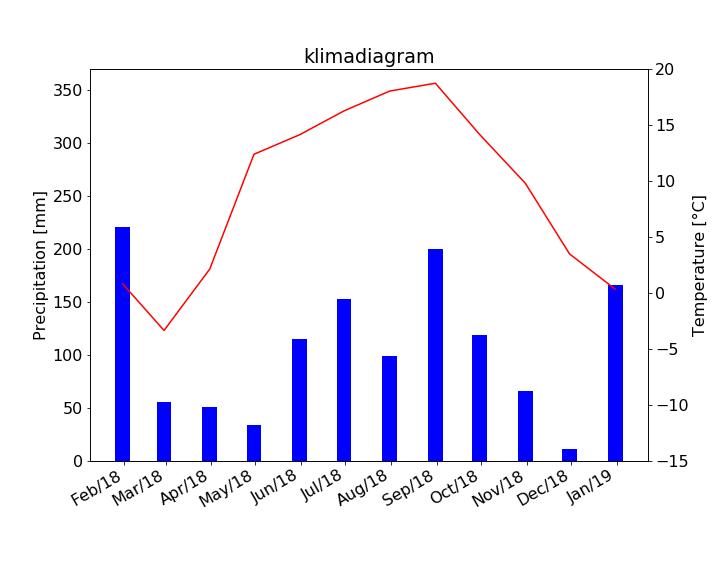
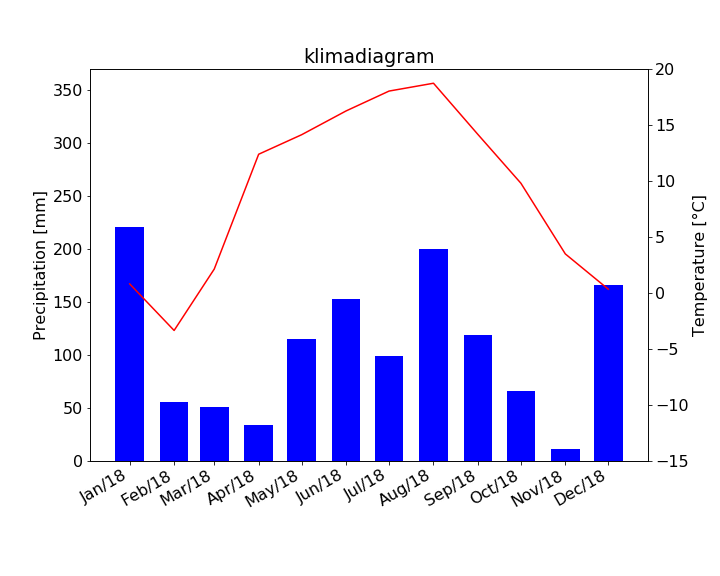
fix month start freq

diff --git a/create_climate_diagrams.py b/create_climate_diagrams.py
@@ -60,20 +60,25 @@ def create_climate_diagram(df,
     ax2 = fig.add_subplot(111)
     ax1 = ax2.twinx()
     
-    df_agg = df.loc[:,[temp_col,prec_col]].resample("1M").agg({temp_col:"mean",prec_col:"sum"})
     
+    df_agg = df.resample("1M").agg({temp_col:"mean", prec_col:"sum"})
+
     # Draw temperature values as a red line and precipitation values as blue bars: [1P]
     # Hint: Check out the matplotlib documentation how to plot barcharts. Try to directly set the correct
     #       x-axis labels (month shortnames).
-    ax2.bar(df_agg.index, df_agg[prec_col], color = "blue", width = 10, label = "regen")
-    ax1.plot(df_agg[temp_col], color= "red", label = "Temperature")
+    ax2.bar(df_agg.index, df_agg[prec_col], color = "blue", width = 20, align = 'center')
+    ax1.plot(df_agg[temp_col], color= "red")
     # Set appropiate limits to each y-axis using the function arguments: [1P]
     ax2.set_ylim(prec_range)
     ax1.set_ylim(temp_range)
     #monate auf der xachse
     ax1.xaxis.set_major_locator(mdates.MonthLocator())
     ax1.xaxis.set_major_formatter(mdates.DateFormatter("%b/%y"))
-    plt.xticks(rotation=45)
+    
+    #plt.xticks(rotation=45)
+    fig.autofmt_xdate()
+    #ax1.set_xlim(df_agg.index[0],df_agg.index[-1] )
+    
     # Set appropiate labels to each y-axis: [1P]
     ax2.set_ylabel("Precipitation [mm]")
     ax1.set_ylabel("Temperature [°C]")
@@ -83,9 +88,9 @@ def create_climate_diagram(df,
     
 
     # Save the figure as png image in the "output" folder with the given filename. [1P]
-    
+    plt.savefig(output_filename + ".png")
     return fig
 #%%
 # Use this function to draw a climate diagram for 2018 for both stations and save the result: [1P]
-create_climate_diagram(garmisch, " TMK", " RSK", "klimadiagram", "huhu"  )
-#create_climate_diagram(...)
+create_climate_diagram(garmisch, " TMK", " RSK", "klimadiagram", "garmisch"  )
+create_climate_diagram(zugspitze, " TMK", " RSK", "klimadiagram", "zugspitze")
